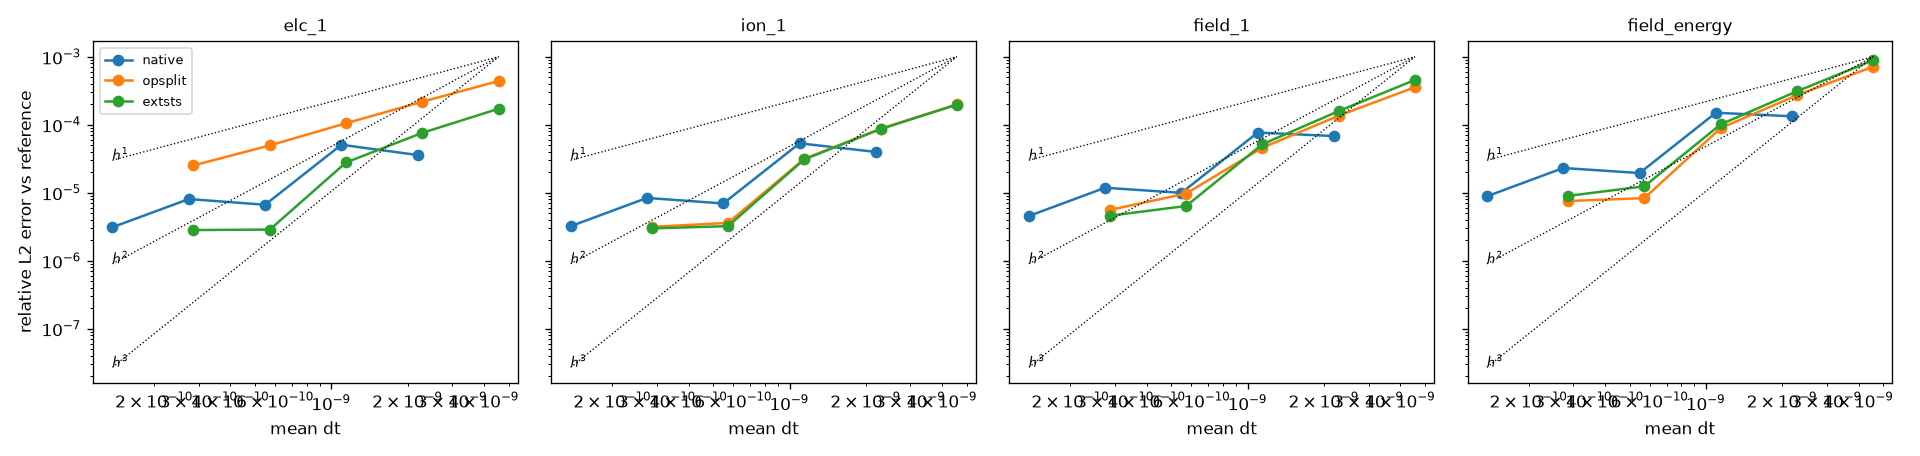
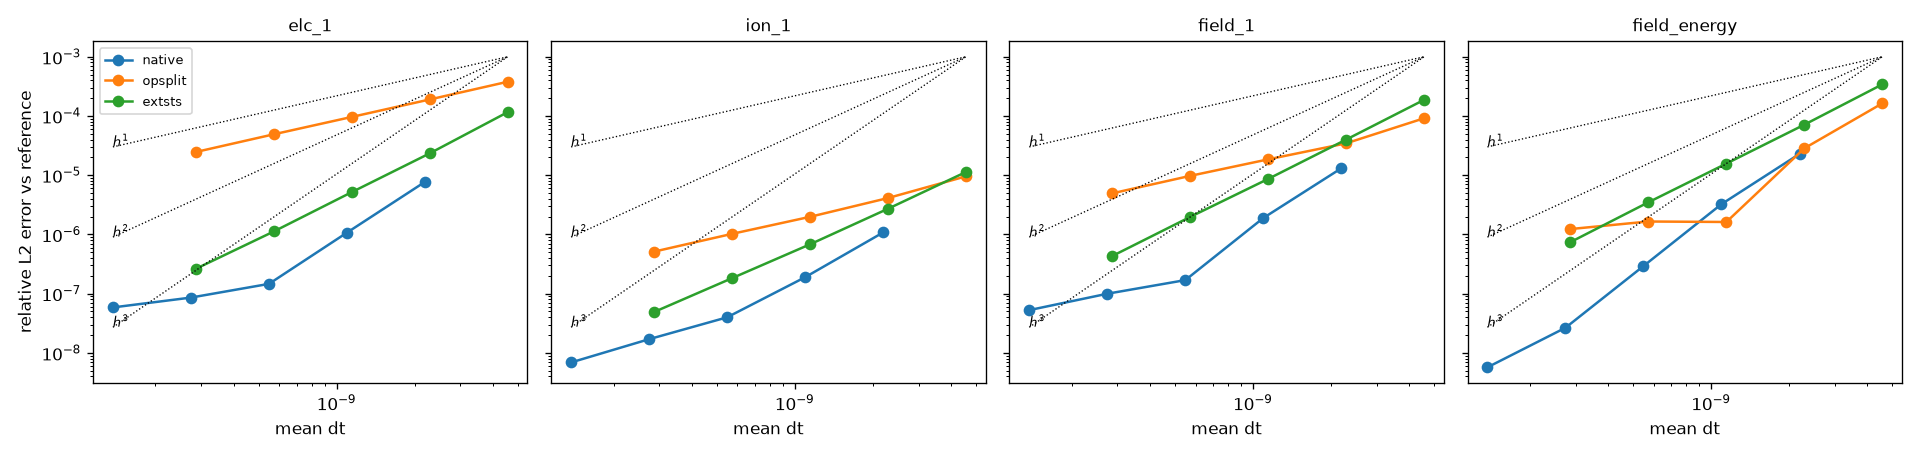
Updated convergence test scripts

diff --git a/results/gk_sheath/convergence.py b/results/gk_sheath/convergence.py
@@ -15,11 +15,21 @@ final output frame (t = t_end) of the electron and ion distribution functions an
 (relative L2 norm), and on the final field energy; observed orders come from consecutive levels.
 The table is written to convergence.md and the error plot to convergence.png.
 
+Gkeyll's run loop (gyrokinetic_run.c) lets the last step overshoot t_end, which would put the
+final frame at t_end + O(dt) and spoil the error measurement. The scratch copy of the input
+therefore replaces gkyl_gyrokinetic_run_simulation() with the explicit loop below, which clips
+the last step to land on t_end. The SUNDIALS steppers honor a shortened step only with the
+fork's stop-time support (gkyl_sundials_get_fixed_step / ARKodeSetStopTime in gkyl_sundials_evolve);
+without it they overshoot t_end as before. The script checks the final time of every run and, if
+any overshoots, still reports the results but marks them with a warning that the errors and
+orders are inaccurate.
+
 Daniel R. Reynolds
 Math & Stat @ UMBC
 """
 import argparse
 import os
+import re
 import shutil
 import subprocess
 import sys
@@ -30,6 +40,7 @@ from fractions import Fraction
 import matplotlib
 matplotlib.use("Agg")
 import matplotlib.pyplot as plt
+import matplotlib.ticker
 import numpy as np
 
 from compare_runs import load_values
@@ -47,6 +58,52 @@ METHODS = {
 }
 FRAMES = ["elc_1", "ion_1", "field_1"]
 
+# Explicit time loop that lands exactly on t_end; replaces the gkyl_gyrokinetic_run_simulation()
+# call of the input file. It prints the same "Taking time-step N ..." and "Total simulation time"
+# lines that parse_log() reads.
+TIME_LOOP = r"""
+  // Convergence study: explicit time loop whose last step lands exactly on t_end.
+  struct timespec tm_init = gkyl_wall_clock();
+  gkyl_gyrokinetic_app *app = gkyl_gyrokinetic_app_new(&app_inp);
+  double t_curr = 0.0, t_end = ctx.t_end;
+  gkyl_gyrokinetic_app_apply_ic(app, t_curr);
+
+  struct gkyl_tm_trigger trig_calc_intdiag =
+    { .dt = t_end/GKYL_MAX2(ctx.num_frames, ctx.int_diag_calc_num), .tcurr = t_curr, .curr = 0 };
+  gkyl_gyrokinetic_app_calc_field_energy(app, t_curr);
+  gkyl_gyrokinetic_app_calc_integrated_mom(app, t_curr);
+  gkyl_gyrokinetic_app_write(app, t_curr, 0);
+
+  double dt = t_end - t_curr;
+  long step = 1;
+  while (t_end - t_curr > 1e-10*t_end) {
+    dt = fmin(dt, t_end - t_curr); // Don't step beyond t_end.
+    struct gkyl_update_status status = gkyl_gyrokinetic_update(app, dt);
+    if (!status.success) {
+      fprintf(stderr, "** Update method failed! Aborting simulation ....\n");
+      break;
+    }
+    t_curr += status.dt_actual;
+    dt = status.dt_suggested;
+    printf("Taking time-step %ld at t = %.8e ...\tdt = %.6e\n", step, t_curr, status.dt_actual);
+    if (gkyl_tm_trigger_check_and_bump(&trig_calc_intdiag, t_curr) || !(t_end - t_curr > 1e-10*t_end)) {
+      gkyl_gyrokinetic_app_calc_field_energy(app, t_curr);
+      gkyl_gyrokinetic_app_calc_integrated_mom(app, t_curr);
+      gkyl_gyrokinetic_app_save_dt(app, t_curr, status.dt_actual);
+    }
+    step += 1;
+  }
+  printf("Final time t = %.16e (t_end = %.16e)\n", t_curr, t_end);
+
+  gkyl_gyrokinetic_app_write(app, t_curr, 1);
+  gkyl_gyrokinetic_app_write_field_energy(app);
+  gkyl_gyrokinetic_app_write_integrated_mom(app);
+  gkyl_gyrokinetic_app_write_dt(app);
+  gkyl_gyrokinetic_app_stat_write(app);
+  printf("\nTotal simulation time: %g sec\n", gkyl_time_diff_now_sec(tm_init));
+  gkyl_gyrokinetic_app_release(app);
+"""
+
 
 def run_one(method, level, t_end, workroot):
     """Build and run one (method, level) in scratch; return the run directory or None."""
@@ -58,6 +115,7 @@ def run_one(method, level, t_end, workroot):
         (r"^  double cfl_frac = 1\.0;", f"  double cfl_frac = {CFL_FRAC * level!r};"),
         (r"^//    \.cfl_frac_omegaH = 1e10,", f"    .cfl_frac_omegaH = {CFL_FRAC_OMEGAH * level!r},"),
         (r"^  double t_end = 6\.0e-6;", f"  double t_end = {t_end!r};"),
+        (r"^  gkyl_gyrokinetic_run_simulation\(&run_inp\);\n", lambda m: TIME_LOOP.lstrip("\n")),
     ]
     edit_input(os.path.join(HERE, INPUT + ".c"), edits, os.path.join(rundir, INPUT + ".c"))
     build = compile_input(HERE, rundir, INPUT)
@@ -75,6 +133,15 @@ def run_one(method, level, t_end, workroot):
     return rundir
 
 
+def final_time(rundir):
+    """Final time reached by a run and its t_end, from the loop's "Final time" line."""
+    for line in open(os.path.join(rundir, "run.log")):
+        m = re.match(r"Final time t = (\S+) \(t_end = (\S+)\)", line)
+        if m:
+            return float(m.group(1)), float(m.group(2))
+    raise RuntimeError(f"{rundir}: no 'Final time' line in run.log")
+
+
 def errors(rundir, refdir):
     """Relative L2 errors of the final frames and of the final field energy vs. the reference."""
     out = {}
@@ -86,6 +153,29 @@ def errors(rundir, refdir):
     _, e_ref = load_series(os.path.join(refdir, f"{INPUT}-field_energy.gkyl"))
     out["field_energy"] = float(abs(e[-1, 0] - e_ref[-1, 0]) / abs(e_ref[-1, 0]))
     return out
+
+
+def plot_results(results, methods, levels, cols, outfile):
+    """Log-log plot of the errors against the mean step, one panel per error column."""
+    fig, axes = plt.subplots(1, len(cols), figsize=(4 * len(cols), 3.8), sharey=True)
+    dts = [r["dt"] for r in results.values()]
+    for ax, c in zip(axes, cols):
+        for m in methods:
+            pts = [(results[(m, l)]["dt"], results[(m, l)]["err"][c]) for l in levels if (m, l) in results]
+            if pts:
+                ax.loglog(*zip(*pts), "o-", label=m)
+        if dts:
+            d = np.array([min(dts), max(dts)])
+            for p in (1, 2, 3):
+                ax.loglog(d, 1e-3 * (d / d[1]) ** p, "k:", lw=0.8)
+                ax.annotate(f"$h^{p}$", (d[0], 1e-3 * (d[0] / d[1]) ** p), fontsize=8)
+        ax.set_title(c, fontsize=10)
+        ax.set_xlabel("mean dt")
+        ax.xaxis.set_minor_formatter(matplotlib.ticker.NullFormatter())
+    axes[0].set_ylabel("relative L2 error vs reference")
+    axes[0].legend(fontsize=8)
+    fig.tight_layout()
+    fig.savefig(outfile, dpi=120)
 
 
 def main():
@@ -110,6 +200,13 @@ def main():
         refdir = dirs[("native", args.ref_level)]
         if refdir is None:
             sys.exit("reference run failed")
+        # Runs whose last step overshot t_end (SUNDIALS steppers without the fork's stop-time support).
+        overshoot = {}
+        for job, d in dirs.items():
+            if d is not None:
+                t_final, t_end = final_time(d)
+                if abs(t_final - t_end) > 1e-8 * t_end:
+                    overshoot[job] = t_final - t_end
         results = {}
         for m in args.methods:
             for l in levels:
@@ -124,7 +221,6 @@ def main():
 
     cols = FRAMES + ["field_energy"]
     lines = []
-    fig, axes = plt.subplots(1, len(cols), figsize=(4 * len(cols), 3.8), sharey=True)
     for m in args.methods:
         lines += [f"\n**{m}** (expected order {METHODS[m][1]})\n",
                   "| level | steps | mean dt | wall (s) | " + " | ".join(f"{c} err | order" for c in cols) + " |",
@@ -144,30 +240,28 @@ def main():
                 cells.append(f"{e:.2e} | {order}")
             lines.append(f"| {l} | {r['steps']} | {r['dt']:.3e} | {r['wall']:.1f} | " + " | ".join(cells) + " |")
             prev = r
-        for ax, c in zip(axes, cols):
-            pts = [(results[(m, l)]["dt"], results[(m, l)]["err"][c]) for l in levels if (m, l) in results]
-            if pts:
-                ax.loglog(*zip(*pts), "o-", label=m)
-    for ax, c in zip(axes, cols):
-        dts = [r["dt"] for r in results.values()]
-        if dts:
-            d = np.array([min(dts), max(dts)])
-            for p in (1, 2, 3):
-                ax.loglog(d, 1e-3 * (d / d[1]) ** p, "k:", lw=0.8)
-                ax.annotate(f"$h^{p}$", (d[0], 1e-3 * (d[0] / d[1]) ** p), fontsize=8)
-        ax.set_title(c, fontsize=10); ax.set_xlabel("mean dt")
-    axes[0].set_ylabel("relative L2 error vs reference"); axes[0].legend(fontsize=8)
-    fig.tight_layout(); fig.savefig(os.path.join(HERE, "convergence.png"), dpi=120)
+    plot_results(results, args.methods, levels, cols, os.path.join(HERE, "convergence.png"))
 
     fork_commit = subprocess.run(["git", "-C", os.path.join(HERE, "..", "..", "deps", "gkeyll-extsts"),
                                   "rev-parse", "--short", "HEAD"], capture_output=True, text=True).stdout.strip()
+    warning = ""
+    if overshoot:
+        worst = max(overshoot.items(), key=lambda kv: abs(kv[1]))
+        warning = ("**WARNING: the final time was not enforced.** The last step overshot t_end in "
+                   f"{len(overshoot)} of {len(dirs)} runs (worst: {worst[0][0]} level {worst[0][1]}, by "
+                   f"{worst[1]:.3e}); the installed fork lacks the stop-time support that makes the SUNDIALS "
+                   "steppers honor a shortened step. The final frames are at t_end + O(dt), so the reported "
+                   "errors and convergence orders are inaccurate.")
     table = "\n".join(lines)
     print(table)
+    if warning:
+        print("\n" + warning)
     with open(os.path.join(HERE, "convergence.md"), "w") as f:
         f.write(f"# Temporal convergence, `rt_gk_sheath_2x2v_p1`\n\n"
                 f"Made by `convergence.py` on {subprocess.run(['date', '-I'], capture_output=True, text=True).stdout.strip()} "
                 f"on {os.uname().nodename}, fork commit `{fork_commit}`; t_end = {args.t_end:g}, jobs = {args.jobs} "
                 f"(runs were concurrent, so wall times are indicative only).\n\n"
+                + (warning + "\n\n" if warning else "") +
                 f"Level = factor applied to both `cfl_frac` ({CFL_FRAC:g}) and `cfl_frac_omegaH` ({CFL_FRAC_OMEGAH:g}); "
                 f"the step is the CFL-set step of the explicit terms at that level. "
                 f"Reference: native SSP-RK3 at level {args.ref_level} ({ref_steps} steps, {ref_wall:.1f} s). "

diff --git a/results/gk_sheath/convergence.md b/results/gk_sheath/convergence.md
@@ -2,36 +2,36 @@
 
 Made by `convergence.py` on 2026-10-28 on math28, fork commit `85ed9cb86`; t_end = 2e-06, jobs = 16 (runs were concurrent, so wall times are indicative only).
 
-Level = factor applied to both `cfl_frac` (1) and `cfl_frac_omegaH` (1.7); the step is the CFL-set step of the explicit terms at that level. Reference: native SSP-RK3 at level 1/128 (116787 steps, 576.0 s). Errors: relative L2 norm of the final frame (t = t_end) against the reference, and relative error of the final field energy; order = log(err ratio)/log(dt ratio) between consecutive levels.
+Level = factor applied to both `cfl_frac` (1) and `cfl_frac_omegaH` (1.7); the step is the CFL-set step of the explicit terms at that level. Reference: native SSP-RK3 at level 1/128 (116787 steps, 574.1 s). Errors: relative L2 norm of the final frame (t = t_end) against the reference, and relative error of the final field energy; order = log(err ratio)/log(dt ratio) between consecutive levels.
 
 **native** (expected order 3)
 
 | level | steps | mean dt | wall (s) | elc_1 err | order | ion_1 err | order | field_1 err | order | field_energy err | order |
 |---|---|---|---|---|---|---|---|---|---|---|---|
-| 1 | 913 | 2.191e-09 | 5.4 | 3.58e-05 | - | 3.98e-05 | - | 6.81e-05 | - | 1.33e-04 | - |
-| 1/2 | 1826 | 1.095e-09 | 10.2 | 5.07e-05 | -0.50 | 5.33e-05 | -0.42 | 7.67e-05 | -0.17 | 1.50e-04 | -0.17 |
-| 1/4 | 3650 | 5.479e-10 | 19.6 | 6.65e-06 | 2.93 | 6.95e-06 | 2.94 | 9.94e-06 | 2.95 | 1.94e-05 | 2.95 |
-| 1/8 | 7300 | 2.740e-10 | 38.3 | 8.06e-06 | -0.28 | 8.38e-06 | -0.27 | 1.18e-05 | -0.25 | 2.31e-05 | -0.25 |
-| 1/16 | 14599 | 1.370e-10 | 74.2 | 3.10e-06 | 1.38 | 3.21e-06 | 1.38 | 4.54e-06 | 1.38 | 8.86e-06 | 1.38 |
+| 1 | 913 | 2.191e-09 | 5.2 | 7.72e-06 | - | 1.08e-06 | - | 1.31e-05 | - | 2.29e-05 | - |
+| 1/2 | 1826 | 1.095e-09 | 10.3 | 1.07e-06 | 2.85 | 1.89e-07 | 2.51 | 1.89e-06 | 2.79 | 3.24e-06 | 2.82 |
+| 1/4 | 3650 | 5.479e-10 | 20.0 | 1.46e-07 | 2.89 | 3.98e-08 | 2.25 | 1.69e-07 | 3.49 | 2.92e-07 | 3.48 |
+| 1/8 | 7300 | 2.740e-10 | 38.7 | 8.57e-08 | 0.76 | 1.70e-08 | 1.22 | 9.95e-08 | 0.76 | 2.65e-08 | 3.46 |
+| 1/16 | 14599 | 1.370e-10 | 74.6 | 5.84e-08 | 0.55 | 6.88e-09 | 1.31 | 5.26e-08 | 0.92 | 5.69e-09 | 2.22 |
 
 **opsplit** (expected order 1)
 
 | level | steps | mean dt | wall (s) | elc_1 err | order | ion_1 err | order | field_1 err | order | field_energy err | order |
 |---|---|---|---|---|---|---|---|---|---|---|---|
-| 1 | 438 | 4.566e-09 | 6.6 | 4.39e-04 | - | 1.99e-04 | - | 3.56e-04 | - | 7.16e-04 | - |
-| 1/2 | 875 | 2.286e-09 | 9.0 | 2.18e-04 | 1.01 | 8.73e-05 | 1.19 | 1.36e-04 | 1.39 | 2.71e-04 | 1.40 |
-| 1/4 | 1749 | 1.144e-09 | 13.4 | 1.05e-04 | 1.05 | 3.14e-05 | 1.47 | 4.60e-05 | 1.56 | 8.92e-05 | 1.61 |
-| 1/8 | 3497 | 5.719e-10 | 25.6 | 4.97e-05 | 1.08 | 3.60e-06 | 3.13 | 9.73e-06 | 2.24 | 8.31e-06 | 3.42 |
-| 1/16 | 6994 | 2.860e-10 | 49.0 | 2.52e-05 | 0.98 | 3.15e-06 | 0.19 | 5.58e-06 | 0.80 | 7.54e-06 | 0.14 |
+| 1 | 438 | 4.566e-09 | 6.5 | 3.78e-04 | - | 9.55e-06 | - | 9.14e-05 | - | 1.63e-04 | - |
+| 1/2 | 875 | 2.286e-09 | 9.0 | 1.90e-04 | 0.99 | 4.11e-06 | 1.22 | 3.45e-05 | 1.41 | 2.84e-05 | 2.52 |
+| 1/4 | 1749 | 1.144e-09 | 13.7 | 9.63e-05 | 0.98 | 1.98e-06 | 1.05 | 1.85e-05 | 0.90 | 1.62e-06 | 4.14 |
+| 1/8 | 3497 | 5.719e-10 | 26.2 | 4.90e-05 | 0.97 | 1.02e-06 | 0.96 | 9.73e-06 | 0.93 | 1.65e-06 | -0.03 |
+| 1/16 | 6994 | 2.860e-10 | 49.6 | 2.46e-05 | 0.99 | 5.11e-07 | 1.00 | 4.93e-06 | 0.98 | 1.23e-06 | 0.43 |
 
 **extsts** (expected order 2)
 
 | level | steps | mean dt | wall (s) | elc_1 err | order | ion_1 err | order | field_1 err | order | field_energy err | order |
 |---|---|---|---|---|---|---|---|---|---|---|---|
-| 1 | 438 | 4.566e-09 | 5.0 | 1.72e-04 | - | 1.97e-04 | - | 4.55e-04 | - | 8.87e-04 | - |
-| 1/2 | 875 | 2.286e-09 | 9.5 | 7.60e-05 | 1.18 | 8.63e-05 | 1.19 | 1.59e-04 | 1.52 | 3.10e-04 | 1.52 |
-| 1/4 | 1749 | 1.144e-09 | 18.5 | 2.79e-05 | 1.45 | 3.09e-05 | 1.48 | 5.16e-05 | 1.62 | 1.01e-04 | 1.62 |
-| 1/8 | 3497 | 5.719e-10 | 35.9 | 2.87e-06 | 3.28 | 3.22e-06 | 3.26 | 6.38e-06 | 3.02 | 1.24e-05 | 3.03 |
-| 1/16 | 6994 | 2.860e-10 | 68.7 | 2.82e-06 | 0.02 | 2.99e-06 | 0.11 | 4.59e-06 | 0.47 | 8.98e-06 | 0.47 |
+| 1 | 438 | 4.566e-09 | 4.8 | 1.16e-04 | - | 1.13e-05 | - | 1.87e-04 | - | 3.41e-04 | - |
+| 1/2 | 875 | 2.286e-09 | 9.4 | 2.34e-05 | 2.31 | 2.71e-06 | 2.06 | 3.99e-05 | 2.23 | 7.12e-05 | 2.26 |
+| 1/4 | 1749 | 1.144e-09 | 18.7 | 5.18e-06 | 2.18 | 6.80e-07 | 2.00 | 8.65e-06 | 2.21 | 1.57e-05 | 2.19 |
+| 1/8 | 3497 | 5.719e-10 | 36.4 | 1.12e-06 | 2.21 | 1.82e-07 | 1.90 | 1.97e-06 | 2.14 | 3.48e-06 | 2.17 |
+| 1/16 | 6994 | 2.860e-10 | 69.1 | 2.62e-07 | 2.10 | 4.88e-08 | 1.90 | 4.30e-07 | 2.19 | 7.38e-07 | 2.24 |
 
 ![convergence](convergence.png)
